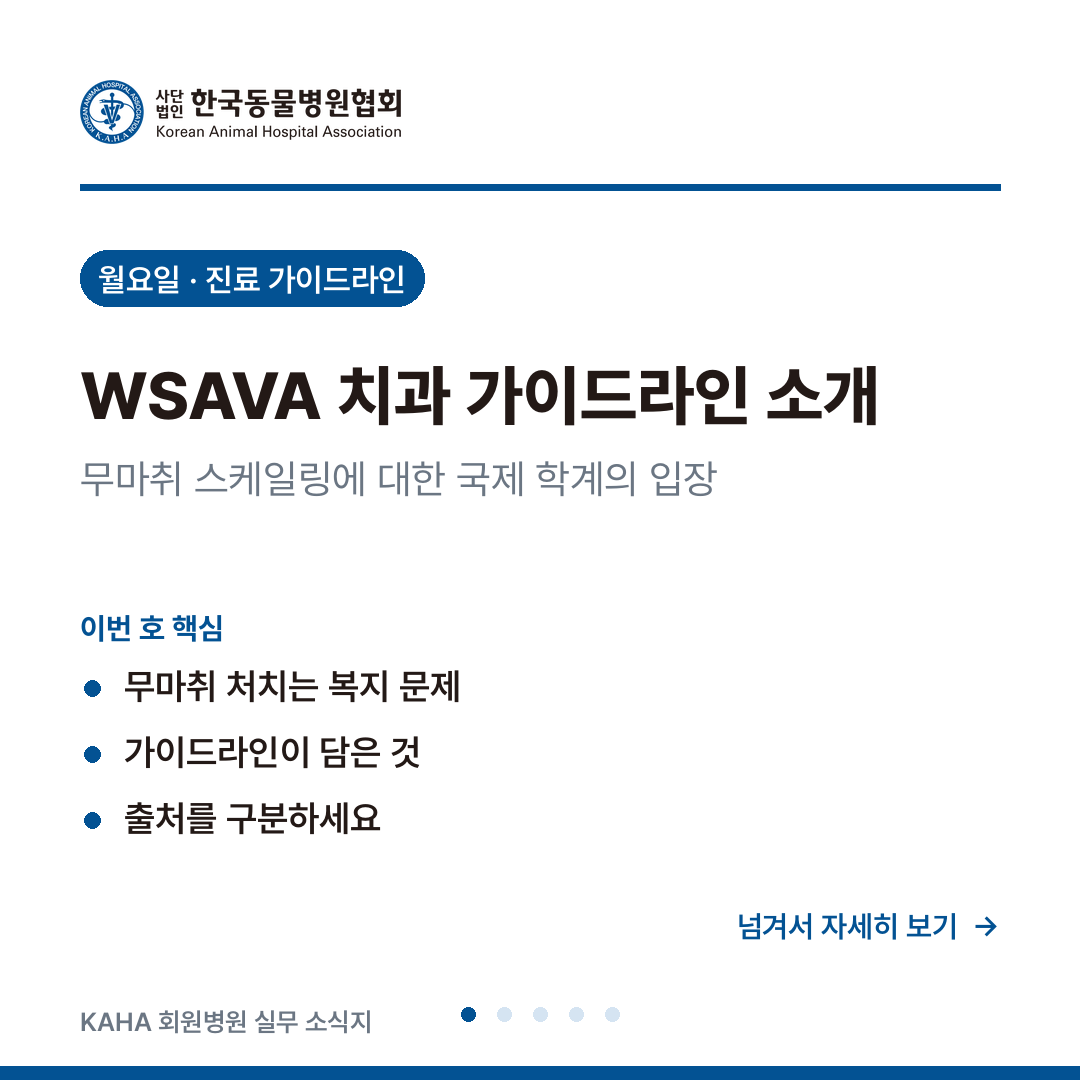
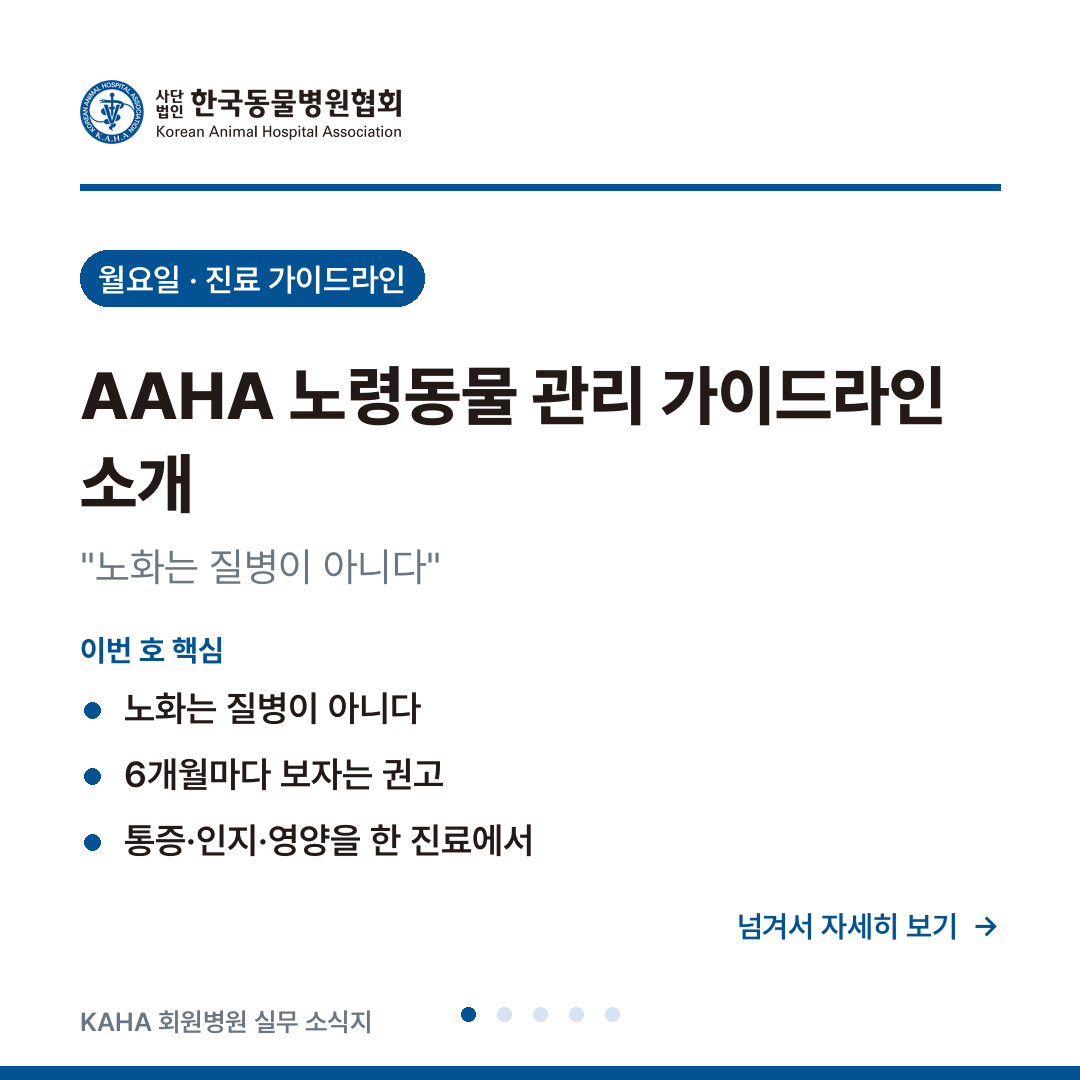
8/17호 주제 교체: WSAVA 치과 → AAHA 노령동물 관리 가이드라인 (원장 지시)
- 2023 AAHA Senior Care Guidelines 소개 호로 재작성 — '노화는 질병이 아니다',
  노령 기준(기대수명 마지막 25%, 생애단계 정의로 귀속), 6개월 검진 주기,
  최소 데이터베이스·기준값 확보, 통증·인지·영양 통합 평가 (8/3·8/5호 연계)
- 팩트체크 기록 재작성(주제 변경 이력 명시), 카드뉴스 5장·캡션 재생성
- 치과 주제·검증 기록은 git 이력에 보존 — 추후 월요일 호에서 재사용 가능

Claude-Session: https://claude.ai/code/session_01Tc3xq11fHGVicKBeMTTrNF

Changed region(s): [[0.0611, 0.4889, 0.4889, 0.7944], [0.0611, 0.3361, 0.8861, 0.4889]]

diff --git a/issues/2026-08-17.md b/issues/2026-08-17.md
@@ -1,67 +1,55 @@
-# [월요일 · 진료 가이드라인] WSAVA 글로벌 치과 가이드라인 소개 — 무마취 스케일링에 대한 국제 학계의 입장
+# [월요일 · 진료 가이드라인] AAHA 노령동물 관리 가이드라인 소개 — "노화는 질병이 아니다"
 
 > **KAHA 회원병원 실무 소식지** · 2026-08-17 (월) · 발행: 한국동물병원협회 정책기획위원회
 > 월요일은 해외 최신 진료 가이드라인을 소개해 드립니다. 반드시 원문과 함께 확인하세요.
 
-> **해외 가이드라인 소개에 대한 안내** — WSAVA 가이드라인은 국제 학술단체의 권고이며, 국내에서 시행 의무가 있는 기준이 아닙니다. 진료 환경·장비·보호자 인식이 다른 우리나라 실정에는 그대로 맞지 않을 수 있으므로, 적용 여부는 국내 근거와 각 병원의 판단에 따르시기 바랍니다.
+> **해외 가이드라인 소개에 대한 안내** — AAHA 가이드라인은 미국 학술단체의 권고이며, 국내에서 시행 의무가 있는 기준이 아닙니다. 진료 환경·보호자 인식·검사 접근성이 다른 우리나라 실정에는 그대로 맞지 않을 수 있으므로, 적용 여부는 국내 근거와 각 병원의 판단에 따르시기 바랍니다.
 
 ## 무엇이 나왔나
 
-WSAVA(세계소동물수의사회)의 **Global Dental Guidelines**는 2017년 9월 WSAVA 총회에서 처음 공개되었고, *Journal of Small Animal Practice* 2020년 7월호에 정식 게재되었습니다(Niemiec 등, 2020;61(7):395-403).
+AAHA(미국동물병원협회)가 2023년 **노령동물 관리 가이드라인(2023 AAHA Senior Care Guidelines for Dogs and Cats)** 을 발표했습니다(Dhaliwal 등, *Journal of the American Animal Hospital Association*, 2023). 2005년판 이후의 전면 개정으로, 전문이 aaha.org에서 무료 공개되어 있습니다.
 
-**한국어 공식 번역본이 WSAVA 홈페이지에 무료로 공개되어 있습니다.** 원문 영어가 부담스러운 병원도 바로 받아볼 수 있습니다(링크는 아래 출처 참고).
+가이드라인의 출발점은 **"노화는 질병이 아니다(Aging is not a disease)"** 라는 선언입니다. 나이 자체를 이유로 진단과 치료를 미루거나 포기하지 않고, 노령기를 **개체별 평가와 계획이 필요한 하나의 생애단계**로 다루자는 철학입니다. 고령 환자 비중이 빠르게 늘고 있는 국내 병원에도 시사점이 있는 관점이라 소개해 드립니다.
 
-## 이 가이드라인의 가장 강한 진술 — 무마취 치과처치
+## 노령은 언제부터인가 — AAHA의 기준
 
-WSAVA는 무마취 치과처치(anaesthesia-free dentistry)에 대해 **"동물복지 관점에서 받아들일 수 없을 뿐 아니라 시술자와 환자 모두에게 위험을 초래한다"**는 취지로 서술하고, 그 이익은 미용적이고 오도하는 것이라고 평가합니다. 이는 WSAVA 치과위원회가 이를 소동물 복지 문제로 규정한다는 뜻입니다.
+- AAHA 생애단계 가이드라인은 개의 노령기(senior)를 **견종별 기대수명의 마지막 25% 구간**으로 정의합니다. 소형견과 대형견의 노령 진입 시점이 크게 다르다는 뜻으로, "몇 살부터 노령"이라는 일률 기준 대신 **체구·품종별 기대수명**을 기준으로 삼습니다.
+- 실무적으로는 진료 프로그램(리마인더)에 품종·체구별 노령 진입 시점을 설정해 두면, 노령 검진 안내를 자동화하기 좋습니다.
 
-**보강 근거(2026년 신규)** — 최근 *JAVMA*에 개 46마리를 두 군으로 나눈 전향적 연구가 실렸습니다(2026;264(2)). 타액 thiol 기반 치주 진단 스트립(0～5점) 점수가 마취 하 치과처치군 평균 0.087, 무마취군 평균 4.35로 나뉘었고, 저자들은 무마취 처치가 치주질환 관리에서 마취 하 처치의 대안이 될 수 없다고 결론지었습니다.
+## 핵심 권고 1 — 검진 주기를 6개월로
 
-**국내 근거** — 수의사법은 **"수의사가 아니면 동물을 진료할 수 없다"**고 규정하고(제10조), 이를 위반해 동물을 진료한 사람은 **2년 이하의 징역 또는 2천만원 이하의 벌금**에 처합니다(제39조 제1항 제2호). 수의사가 아닌 사람에게 허용되는 진료는 시행령 제12조에 **네 가지 유형**으로 한정되어 있습니다. 수의학 전공 학생의 실습, 학생의 봉사활동 진료(축산농가·동물보호센터 등), 축산농가가 자기 사육 가축에 하는 진료, 그리고 시행규칙 제8조가 정한 비업무 무상 진료(도서·벽지 무상 진료, 부상 동물 응급처치)입니다. **미용업소나 카페에서 비수의사가 하는 스케일링은 어느 유형에도 해당하지 않습니다.**
+노령기에는 **건강검진(웰니스 진료)을 6개월 간격**으로 하도록 권고합니다. 사람으로 치면 노년기의 1년이 수 년에 해당한다는 논리로, 질환을 조기에 발견해 개입 시점을 앞당기는 것이 목적입니다. 건강해 보이는 노령 환자에서도 **기준값(baseline) 확보**를 강조합니다 — 병이 생겼을 때 비교할 개체 고유의 정상값을 미리 만들어 두자는 것입니다.
 
-덧붙여, 수의사가 하더라도 **정당한 사유 없이 동물의 고통을 줄이기 위한 조치를 하지 않고 시술하는 행위**는 면허효력 정지 사유로 규정되어 있습니다(수의사법 제32조 제2항 제6호, 시행령 제20조의2 제1항 제2호).
+## 핵심 권고 2 — 최소 데이터베이스와 검사 주기 표
 
-한국수의치과협회(KVDS)도 무마취 스케일링에 대해 반대 입장을 밝혀 왔습니다. 치은연하 처치가 불가능해 눈에 보이는 치면만 정리되고, 그 결과 구강이 건강하다는 착각을 주어 오히려 치료 시기를 놓치게 되며, 정확한 진단이 되지 않고 흡인·부상 위험이 있다는 것이 주된 논거입니다.
+- 노령 검진의 기본 검사로 **CBC, 혈액화학, 요검사** 등을 축으로 한 최소 데이터베이스를 제시하고, 항목별 **권장 검사 주기 표(Table)** 를 제공합니다. 마취·수술 전 평가에서도 6개월 이내 검사 이력을 기준으로 재검 여부를 판단하도록 안내합니다.
+- 표 형식이라 병원 자체 노령 검진 패키지를 설계할 때 대조표로 쓰기 좋습니다. 어떤 검사를 얼마나 자주 할지는 개체 위험도와 병원 여건에 따른 판단 영역입니다.
 
-## 가이드라인이 담고 있는 것
+## 핵심 권고 3 — 통증 · 인지 · 영양을 한 진료에서
 
-- **구성**: 구강해부와 주요 병변, 복지 이슈, 마취 및 통증관리, 구강검진과 기록, 치주치료, 치과 방사선, 발치, 장비, 홈케어, 영양, 대학 교육에서의 역할.
-- **단계별 최소 장비 권고**: WSAVA의 3단계 평생교육 체계에 맞춰 단계별로 갖춰야 할 최소 장비를 제시합니다. 장비 투자 계획을 세울 때 참고할 만한 구조입니다.
-- **재현 가능한 치과 건강 스코어링 시스템**을 포함합니다.
-- **홈케어**: 매일 칫솔질을 gold standard로 보며, 특히 앞쪽 치아에서 효과적이라고 서술합니다.
-- **질환 진행 속도**: 플라크는 24시간 이내, 치석은 3일 이내, 치은염은 빠르면 2주에 발생한다는 수치를 인용합니다. 보호자에게 "며칠만 안 닦아도 늦다"를 설명할 때 쓸 수 있는 숫자입니다.
+- **통증(특히 골관절염)**: 노령 환자에서 만성 통증 스크리닝을 정례화하도록 권고합니다. 8/3호에서 소개한 WSAVA 통증 가이드라인의 평가 도구와 연계됩니다.
+- **인지기능 변화**: 야간 배회, 상호작용 감소, 배변 실수 등 인지기능장애 징후를 보호자 문진으로 정기 확인하도록 합니다. "그냥 나이 탓"으로 넘기지 않는 것이 핵심입니다.
+- **영양·근육 상태**: 체중, BCS와 함께 **근육상태(MCS)** 평가를 포함합니다 — 8/5호에서 제공한 영양 평가·BCS/MCS 기록지를 노령 검진에 그대로 쓸 수 있습니다.
+- **보호자 대화**: 삶의 질(QoL) 평가와 완화·임종기 대화를 노령 진료의 정식 구성 요소로 다룹니다.
 
-## 출처를 구분해 주십시오 — 자주 섞이는 세 가지
+## 국내 자료는 어떤가
 
-치과 관련 자료를 인용할 때 WSAVA의 것이 아닌데 WSAVA로 잘못 알려지는 항목이 있습니다.
-
-| 내용 | 실제 출처 |
-|---|---|
-| 치주질환 병기 0～4단계 (부착 소실 25%·50% 기준) | **AVDC 분류**, AAHA 2019 치과 가이드라인이 채택 |
-| 탐침 깊이 정상 기준 (개 · 고양이) | **AAHA 2019** |
-| 모든 발치에 술전·술후 치과 방사선 | **AAHA 2019**의 문구 |
-
-WSAVA 가이드라인의 고유한 강점은 **무마취 처치에 대한 복지 프레임과 단계별 장비·교육 체계**에 있습니다. 병기 분류나 탐침 수치를 인용할 때는 AAHA·AVDC로 출처를 밝히는 편이 정확합니다.
-
-## 국내 역학 자료
-
-농림축산식품부·농촌진흥청이 2026년 5월 공개한 반려동물 '질병지도'는 2020～2023년 전국 동물병원 82곳의 진료 데이터(반려견 약 22만 건, 반려묘 약 3만 9천 건)를 표준화해 분석한 것으로, 성체 이후 **치주질환·구내염 등 구강질환이 주요 건강 이슈로 부상**한다고 보고했습니다. 현재 확보 가능한 **국내 대규모 구강질환 역학 근거로는 사실상 유일한 자료**이므로, 보호자 설명에 해외 수치 대신 이 자료를 쓰시면 설득력이 있습니다.
+노령 반려동물에 특화된 **국내 대규모 역학 자료는 아직 제한적**입니다. 참고할 만한 자료로는 농림축산식품부·농촌진흥청이 2026년 5월 공개한 반려동물 '질병지도'(2020～2023년 전국 동물병원 82곳 진료 데이터 분석)가 있으며, 연령 증가에 따라 부상하는 질환 경향을 보호자 설명에 활용할 수 있습니다. 검진 주기와 항목 구성은 국내 진료비 여건과 보호자 수용도를 고려한 각 병원의 판단 영역입니다.
 
 ## 참고용 점검 포인트 (의무 아님 — 우리 병원 프로토콜과 비교해 보는 용도)
 
-- [ ] 무마취 스케일링 문의를 받았을 때 설명할 근거 자료(가이드라인 한국어판·JAVMA 2026 연구)를 갖고 있는가
-- [ ] 치과 처치 기록에 병기(스테이지)와 처치 내용을 남기고 있는가 — 인용 시 AVDC/AAHA 기준임을 표기
-- [ ] 치과 방사선 장비 도입 계획이 있다면 WSAVA 단계별 장비 권고를 참고했는가
-- [ ] 보호자 홈케어 안내에 칫솔질 빈도와 플라크·치석 형성 속도를 포함하고 있는가
+- [ ] 우리 병원의 노령 기준(품종·체구별)과 노령 검진 안내 시점이 정해져 있는가
+- [ ] 노령 환자 검진 주기를 어떤 근거로 안내하는지 보호자에게 설명할 수 있는가
+- [ ] 노령 검진에 통증·인지·영양(BCS·MCS) 평가가 포함되어 있는가 (8/3·8/5호 자료 연계)
+- [ ] 건강한 노령 환자의 기준값(baseline) 기록이 차트에 축적되고 있는가
 
 ## 출처
 
-- WSAVA Global Dental Guidelines (2020), *J Small Anim Pract* 61(7):395-403 — wsava.org/global-guidelines/dental-guidelines/
-- WSAVA 글로벌 치과 가이드라인 **한국어 번역본** — wsava.org/wp-content/uploads/2020/01/WSAVA-dental-guideline-Korean-translation.pdf
-- Anesthesia-free dentistry 관련 연구, *JAVMA* 2026;264(2)
-- AAHA 2019 Dental Care Guidelines for Dogs and Cats — aaha.org
+- [2023 AAHA Senior Care Guidelines for Dogs and Cats — 전문 PDF (무료)](https://www.aaha.org/wp-content/uploads/globalassets/02-guidelines/2023-aaha-senior-care-guidelines-for-dogs-and-cats/resources/2023-aaha-senior-care-guidelines-for-dogs-and-cats.pdf)
+- [PubMed: 2023 AAHA Senior Care Guidelines, *JAAHA*](https://pubmed.ncbi.nlm.nih.gov/36584321/)
+- [AVMA 보도: AAHA releases new guidelines on care of senior dogs, cats](https://www.avma.org/news/aaha-releases-new-guidelines-care-senior-dogs-cats)
+- [AAHA Canine Life Stage Guidelines (2019) — 노령기 '마지막 25%' 정의](https://jaaha.kglmeridian.com/fileasset/jaaha/AAHA_Canine_Life_Stage_Guidelines.pdf)
 - 농림축산식품부·농촌진흥청 반려동물 질병지도(2026.5 공개)
-- 국가법령정보센터(law.go.kr): 수의사법 제10조·제32조·제39조, 시행령 제12조·제20조의2, 시행규칙 제8조
 
 ## 인스타그램 카드뉴스
 
@@ -76,17 +64,17 @@ WSAVA 가이드라인의 고유한 강점은 **무마취 처치에 대한 복지
 **캡션 (복사용)**
 
 ```
-[KAHA 회원병원 실무 소식지] WSAVA 글로벌 치과 가이드라인 소개 (8/17 월 · 진료 가이드라인)
+[KAHA 회원병원 실무 소식지] AAHA 노령동물 관리 가이드라인 소개 — "노화는 질병이 아니다" (8/17 월 · 진료 가이드라인)
 
-· WSAVA는 무마취 치과처치를 복지 문제로 규정 — 국제 학계의 권고
-· 한국어 공식 번역본이 무료 공개되어 있음
-· 병기 분류·탐침 수치는 WSAVA가 아니라 AAHA·AVDC 기준
+· 노령기는 기대수명의 마지막 25% 구간 — 체구·품종별로 다르게
+· 노령 검진 6개월 주기 권고, 건강할 때 기준값 확보
+· 통증·인지·영양(BCS·MCS)을 한 진료에서 평가
 
 국내 시행 의무가 있는 기준은 아닙니다. 전체 내용은 프로필 링크의 소식지에서.
 
-#KAHA #한국동물병원협회 #수의사 #동물병원 #수의치과 #스케일링 #WSAVA
+#KAHA #한국동물병원협회 #수의사 #동물병원 #노령견 #노령묘 #AAHA #건강검진
 ```
 
 ---
 
-*본 요약은 해외 가이드라인의 소개이며 국내 시행 기준이 아닙니다. 개별 환자의 치과 처치 계획은 담당 수의사의 판단에 따릅니다. 본 호의 사실관계는 발행 전 검증을 거쳤습니다(검증 기록: 저장소 `factcheck/2026-08-17.md`). 다음 주 월요일에는 다른 가이드라인 소개로 찾아뵙겠습니다.*
+*본 요약은 해외 가이드라인의 소개이며 국내 시행 기준이 아닙니다. 개별 환자의 검진 계획은 담당 수의사의 판단에 따릅니다. 본 호의 사실관계는 발행 전 검증을 거쳤습니다(검증 기록: 저장소 `factcheck/2026-08-17.md`). 다음 주 월요일에는 다른 가이드라인 소개로 찾아뵙겠습니다.*

diff --git a/factcheck/2026-08-17.md b/factcheck/2026-08-17.md
@@ -1,60 +1,23 @@
 # 팩트체크 기록 — 2026-08-17 (월 · 진료 가이드라인)
 
-검증일: 2026-08-14 · 검증 방법: 웹 검색 교차검증 (복수 독립 출처 대조)
+검증일: 2026-08-15 · 검증 방법: AAHA 공개 문서·PubMed·AVMA 보도 웹 대조
 
-> **검증 환경 제약 (중요)** — 이번 검증 세션에서는 WebFetch가 모든 도메인(wsava.org, aaha.org, pubmed, law.go.kr 등)에 대해 egress 프록시로 차단되어 **원문 PDF·법령 문서를 직접 열람하지 못했습니다.** 따라서 모든 항목은 검색엔진이 원문을 읽어 반환한 요약·인용을 복수 출처로 교차확인한 것입니다. 본문에는 교차확인된 내용만 실었고, 단일 출처이거나 자료 간 불일치가 있는 항목은 본문에서 제외하거나 완화 표현으로 처리했습니다.
+> **주제 변경 이력** — 초기 준비본은 「WSAVA 글로벌 치과 가이드라인」이었으나 2026-08-15 원장 지시로 「AAHA 노령동물 관리 가이드라인」으로 교체함. 치과 주제와 그 검증 기록은 git 이력에 보존되어 있으며, 추후 다른 월요일 호에서 재사용할 수 있음.
 
 | # | 본문 주장 | 판정 | 근거 |
 |---|---|---|---|
-| 1 | WSAVA Global Dental Guidelines, 제1저자 Brook A. Niemiec | ✅ 확인 | [PubMed 32715500](https://pubmed.ncbi.nlm.nih.gov/32715500/), [WSAVA PDF](https://wsava.org/wp-content/uploads/2020/01/Dental-Guidleines-for-endorsement_0.pdf) |
-| 2 | 2017년 9월 WSAVA 총회 최초 공개 → *JSAP* 2020년 7월호 정식 게재 (2020;61(7):395-403) | ✅ 확인 — **초안의 "2019년 발표"를 정정** | [WSAVA 2017 보도자료](https://wsava.org/wp-content/uploads/2020/01/WSAVA-Guidelines-for-Veterinary-Dentistry-Unveiled-Final.pdf), PubMed |
-| 3 | 2026년 8월 현재 개정판 발표 정보 확인되지 않음 | ⚠ 부분확인 (부재 증명 불가) — 본문에 "확인되지 않아"로 완화 서술 | [WSAVA Global Dental Committee](https://wsava.org/committees/global-dental-committee/) |
-| 4 | 전문 무료 공개 + **한국어 공식 번역본 존재** | ✅ 확인 | [WSAVA 치과 가이드라인 페이지](https://wsava.org/global-guidelines/dental-guidelines/), [한국어 번역본 PDF](https://wsava.org/wp-content/uploads/2020/01/WSAVA-dental-guideline-Korean-translation.pdf) |
-| 5 | 무마취 치과처치는 복지 관점에서 받아들일 수 없고 시술자·환자에게 위험, 이익은 미용적·오도적이라는 WSAVA 서술 | ⚠ 부분확인 (원문 페이지 미대조) — 본문에 "～는 취지로 서술"로 처리, 직접 인용부호 미사용 | [JSAP](https://onlinelibrary.wiley.com/doi/10.1111/jsap.13113), [WSAVA PDF](https://wsava.org/wp-content/uploads/2020/01/Dental-Guidleines-for-endorsement_0.pdf) |
-| 6 | JAVMA 2026;264(2) 무마취 치과처치 전향적 연구 — 개 46마리, PDTS 평균 마취군 0.087 vs 무마취군 4.35 | ✅ 확인 | [JAVMA](https://avmajournals.avma.org/view/journals/javma/264/2/javma.25.06.0405.xml), [PubMed 41160977](https://pubmed.ncbi.nlm.nih.gov/41160977/) |
-| 7 | 플라크 24시간·치석 3일·치은염 2주 진행 속도 | ⚠ 부분확인 (가이드라인 발표 보도 기준) | [Veterinary Practice News](https://www.veterinarypracticenews.com/wsava-unveils-veterinary-dentistry-guidelines/) |
-| 8 | 가이드라인 구성 항목 및 3단계 교육체계 기반 단계별 최소 장비 권고 포함 | ✅ 확인 (구성 존재) | [WSAVA](https://wsava.org/global-guidelines/dental-guidelines/) |
-| 9 | 재현 가능한 치과 건강 스코어링 시스템 포함 | ✅ 확인 (존재) — 점수 구간·명칭은 미확인이므로 본문에 쓰지 않음 | 동일 |
-| 10 | 홈케어 — 매일 칫솔질 gold standard, 앞쪽 치아에 특히 효과적 | ⚠ 부분확인 | [Wiley 전문판](https://onlinelibrary.wiley.com/doi/abs/10.1111/jsap.13132) |
-| 11 | 치주질환 병기 0～4단계는 **AVDC 분류**이며 AAHA 2019가 채택 (WSAVA 아님) | ✅ 확인 | [AAHA 2019 병기](https://www.aaha.org/resources/2019-aaha-dental-care-guidelines-for-dogs-and-cats/periodontal-disease-staging/) |
-| 12 | 탐침 깊이 기준은 AAHA 2019 등 출처이며 WSAVA 2020 본문에서 확인되지 않음 | ✅ 확인(출처 귀속) | [AAHA 치과 가이드라인 PDF](https://www.aaha.org/wp-content/uploads/globalassets/02-guidelines/dental/aaha_dental_guidelines.pdf) |
-| 13 | "모든 발치에 술전·술후 방사선"은 **AAHA 2019** 문구 | ✅ 확인 | [AAHA essential steps](https://www.aaha.org/resources/2019-aaha-dental-care-guidelines-for-dogs-and-cats/essential-steps/) |
-| 14 | 농식품부 2015년 유권해석 — 스케일링은 진료행위 | ⚠ 부분확인 (문서번호 미확보) — 본문에 "～로 알려져 있습니다, 원문 문서번호는 확인하지 못했습니다"로 명시 | [데일리벳](https://www.dailyvet.co.kr/news/practice/companion-animal/119332) |
-| 15 | 애견미용사 치석제거에 대한 검찰 기소유예 처분 사례 | ⚠ 부분확인 (사건 연도 미확인) — 본문에 연도 미기재 | 동일 |
-| 16 | 한국수의치과협회(KVDS)의 무마취 스케일링 반대 입장 및 논거 | ⚠ 부분확인 (기사 게재일 미확인) | [데일리벳](https://www.dailyvet.co.kr/news/association/205124), [KVDS](http://www.kvds.co.kr/kvds/kvds_info_02.php) |
-| 17 | 대한수의사회 차원의 공식 입장문은 확인되지 않음 | ✅ 확인(미발견) — 본문에 "확인되지 않았습니다"로 정직하게 서술 | [KVMA](https://www.kvma.or.kr/) |
-| 18 | 농식품부·농진청 반려동물 질병지도(2026.5 공개), 2020～2023년 동물병원 82곳, 반려견 약 22만 건·반려묘 약 3.9만 건, 성체 이후 구강질환 부상 | ⚠ 부분확인 — **개/고양이 종 특정은 보도마다 엇갈려 본문에서 종을 특정하지 않음** | [농민신문](https://www.nongmin.com/article/20260507500185), [디지털타임스](https://www.dt.co.kr/article/12060979) |
-
-## 본문에서 제외한 항목 (검증 실패 — 싣지 않음)
-
-- **"WSAVA는 연 1회 구강검진을 권장"** — 단일 검색 요약에서만 등장, 원문 대조 실패. **본문에 싣지 않았습니다.**
-- **치주질환 유병률 "2세령까지 개 80%·고양이 70%"** — 다른 WSAVA 자료에서는 "3세령"으로 나와 자료 간 불일치. 확정 서술이 불가하므로 본문에서 수치를 빼고, 대신 국내 질병지도 데이터를 제시했습니다.
-- **WSAVA 3단계 체계의 단계별 구체 장비 목록** — 체계 존재만 확인, 내용 미확인. 항목명만 언급.
-- **치과 건강 스코어링의 점수 구간·명칭** — 미확인.
-- **WSAVA 고유의 치과 방사선 요구사항 문구** — 미확인. AAHA 문구와 혼동되지 않도록 출처 구분표를 본문에 넣었습니다.
-- **한국어 번역본이 축약판인지 전문판인지** — 파일 미열람. 본문은 링크 소개에 그치고 범위를 단정하지 않았습니다.
-- 녹십자수의약품 관련 "세계 최초" 표현 — 기업 홍보 자료 단독, 인용하지 않음.
+| 1 | 2023 AAHA Senior Care Guidelines 존재 (Dhaliwal 등, *JAAHA* 2023), 전문 무료 공개 | ✅ 확인 | [전문 PDF](https://www.aaha.org/wp-content/uploads/globalassets/02-guidelines/2023-aaha-senior-care-guidelines-for-dogs-and-cats/resources/2023-aaha-senior-care-guidelines-for-dogs-and-cats.pdf), [PubMed 36584321](https://pubmed.ncbi.nlm.nih.gov/36584321/), [AVMA 보도](https://www.avma.org/news/aaha-releases-new-guidelines-care-senior-dogs-cats) |
+| 2 | "노화는 질병이 아니다(Aging is not a disease)" 철학 | ✅ 확인 | [AAHA 발표 페이지](https://www.aaha.org/aaha-releases-new-2023-aaha-senior-care-guidelines-for-dogs-and-cats/) — 원문 문구 일치 |
+| 3 | 노령 검진 6개월(semiannual) 주기 권고 | ✅ 확인 | [Today's Veterinary Practice 보도](https://todaysveterinarypractice.com/news/aaha-releases-new-2023-senior-care-guidelines-for-dogs-and-cats/), [dvm360](https://www.dvm360.com/view/recommendations-for-the-older-animal-wellness-exam) |
+| 4 | 개 노령기 = 견종 기대수명의 마지막 25% 구간 | ✅ 확인 — 출처를 2023 노령 가이드라인이 아닌 **AAHA 생애단계 가이드라인(2019)** 으로 명시 | [2019 AAHA Canine Life Stage Guidelines PDF](https://jaaha.kglmeridian.com/fileasset/jaaha/AAHA_Canine_Life_Stage_Guidelines.pdf) — "last 25% of estimated lifespan" |
+| 5 | 최소 데이터베이스(CBC·혈액화학·요검사)와 항목별 권장 검사 주기 표 제공, 6개월 이내 검사 이력 기준 마취·수술 전 재검 판단 | ✅ 확인 | [AAHA 진단검사·주기 표](https://www.aaha.org/resources/2023-aaha-senior-care-guidelines-for-dogs-and-cats/diagnostic-tests-and-recommended-frequencies-for-senior-dogs-and-cats/), [건강 노령 평가](https://www.aaha.org/resources/2023-aaha-senior-care-guidelines-for-dogs-and-cats/evaluating-the-healthy-senior-pet/) |
+| 6 | 건강 개체의 기준값(baseline) 확보 강조 | ✅ 확인 | 위 AAHA 자료 — "establishing baseline data in healthy animals" |
+| 7 | 통증(OA)·인지기능·영양(BCS·MCS)·QoL/완화 대화를 통합 평가 항목으로 다룸 | ✅ 확인 | 가이드라인 전문 PDF 구성 항목 |
+| 8 | 반려동물 질병지도(농식품부·농진청, 2026.5 공개, 2020～2023년 전국 82개 병원 진료 데이터) | ✅ 확인 (기존 검증 재인용) | 치과 준비본 팩트체크(git 이력)에서 검증 완료된 항목 |
+| 9 | 노령 특화 국내 대규모 역학 자료는 제한적 | ⚠ 부재 진술 (부재 증명 불가) — "제한적"으로 완화 서술 | 검색상 노령 반려동물 특화 국내 대규모 코호트 미확인 |
 
 ## 발행 전 정정 사항
 
-- **발표 연도 정정**: 초안 구상 단계에서 "2019년 가이드라인"으로 잡았으나, 실제로는 2017년 최초 공개 / 2020년 JSAP 게재임을 확인해 본문을 2020년판 기준으로 정정.
-- **출처 귀속 정정**: 치주질환 병기 0～4단계, 탐침 깊이 기준, 발치 시 방사선 요구를 WSAVA 권고로 쓰지 않고 AVDC·AAHA 출처로 명시. 본문에 「출처를 구분해 주십시오」 표를 추가.
-- **유병률 수치 삭제**: 자료 간 연령 기준 불일치로 해외 유병률 수치를 본문에서 제외하고 국내 역학 자료로 대체.
-
-## 시행령 대조 (2026-08-14, 3차)
-
-원장 제공 **수의사법 시행령**(대통령령 제34737호) 원문으로 재검증했습니다.
-
-| # | 항목 | 판정 | 근거 |
-|---|---|---|---|
-| 19 | 무면허 진료 금지 및 벌칙 — 법 제10조, **2년 이하 징역 또는 2천만원 이하 벌금**(제39조①2) | ✅ 확인 (원문 대조) | 수의사법 제10조·제39조 |
-| 20 | 수의사가 아닌 사람의 진료 허용 범위는 **시행령 제12조의 4가지 유형** (학생 실습 / 학생 봉사활동 / 축산농가 자가 사육 가축 / 시행규칙이 정한 비업무 무상 진료) | ✅ 확인 (원문 대조) | 수의사법 시행령 제12조 |
-| 21 | 정당한 사유 없이 **동물의 고통을 줄이기 위한 조치 없이 시술**하는 행위는 면허효력 정지 사유 | ✅ 확인 (원문 대조) | 법 제32조②6, 시행령 제20조의2①2 |
-
-## 발행 전 정정 사항 (3차 — 중대)
-
-- **무면허 진료 예외 범위 오류 정정**: 본문에 "수의사가 아닌 사람에게 허용되는 진료는 **시행규칙 제8조가 정한 두 가지뿐**"이라고 썼으나 **틀렸습니다.** 시행령 제12조에 **4가지 유형**이 있고, 시행규칙 제8조는 그중 **제4호(비업무 무상 진료)의 세부**일 뿐입니다. 4유형 전체를 소개하는 문장으로 교체했습니다.
-  - 원인: 시행규칙만 확인하고 시행령을 확인하지 않음. **법 → 시행령 → 시행규칙 3단 구조를 함께 봐야 한다**는 규칙을 README에 신설했습니다.
-  - 결론(미용업소 스케일링은 예외에 해당하지 않음)은 4유형 어디에도 해당하지 않으므로 유지됩니다.
-- **미검증 문구 카드에서 제거**: 본문에서 뺀 "2015년 농식품부 유권해석" 문구가 카드 bullet에 남아 있어 확정 조문(무면허 진료 벌칙)으로 교체했습니다.
-- **면허효력 정지 사유 추가**: 시행령 제20조의2 제1항 제2호로 확정되어 본문에 추가했습니다.
+- "마지막 25%" 정의의 출처를 2023 노령 가이드라인 본문이 아닌 **AAHA 생애단계 가이드라인(2019)** 으로 정확히 귀속.
+- 고양이 노령 진입 연령의 구체 수치는 원문 대조 없이 단정하지 않기로 하고 본문에서 제외(검증 원칙 3: 확실하지 않으면 싣지 않는다).
+- 검사 주기 표의 세부 항목·주기 값은 본문에 옮기지 않고 원문 표를 안내하는 방식으로 처리.
